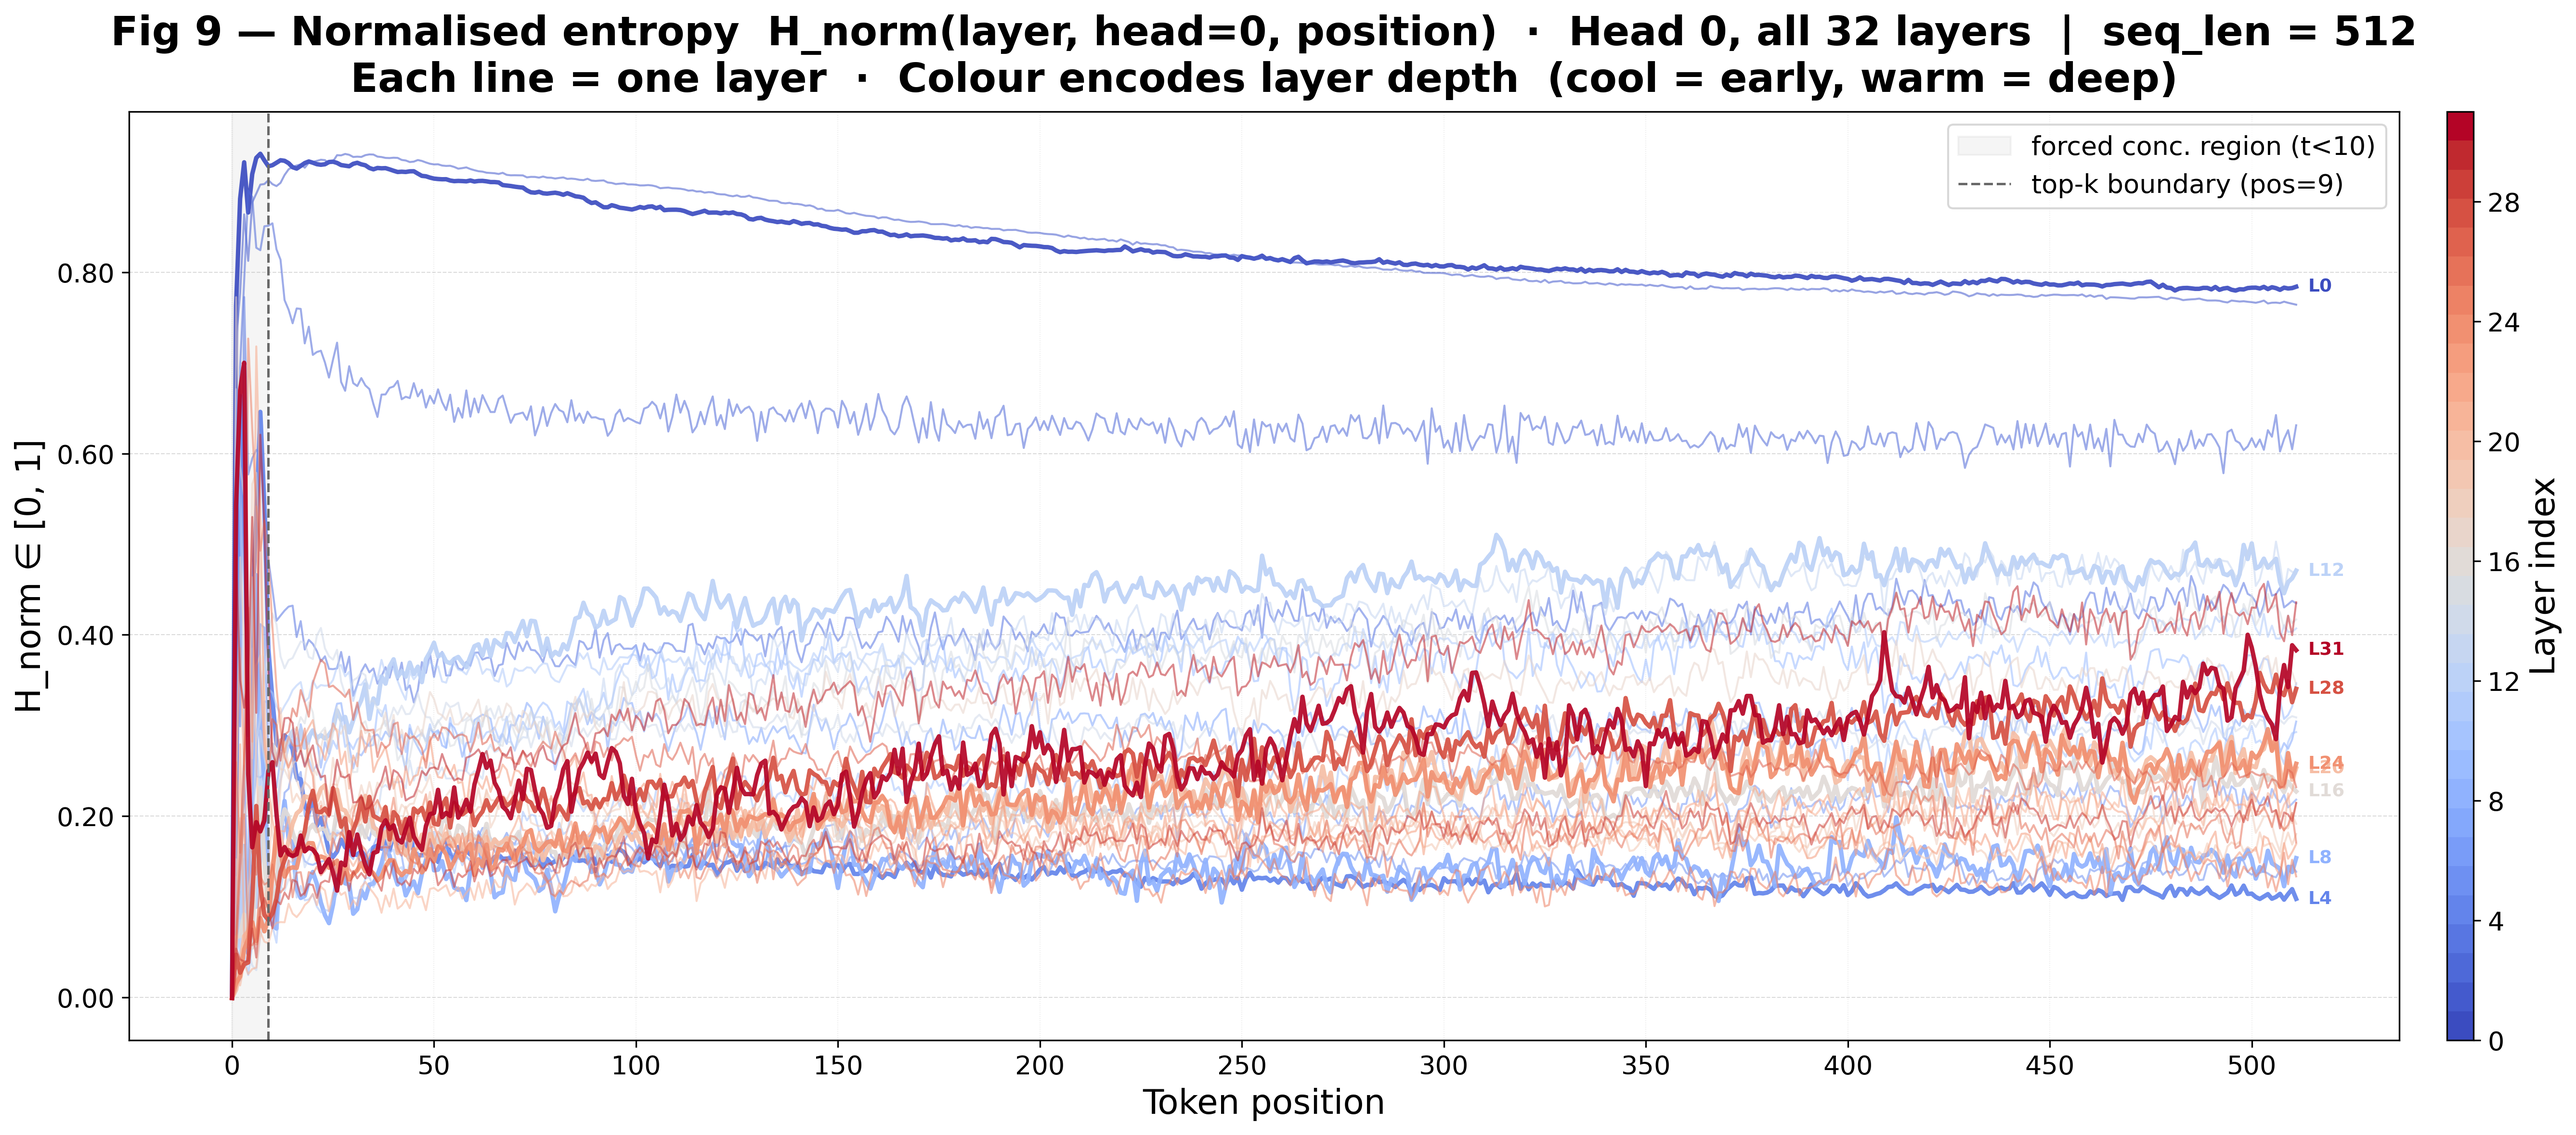
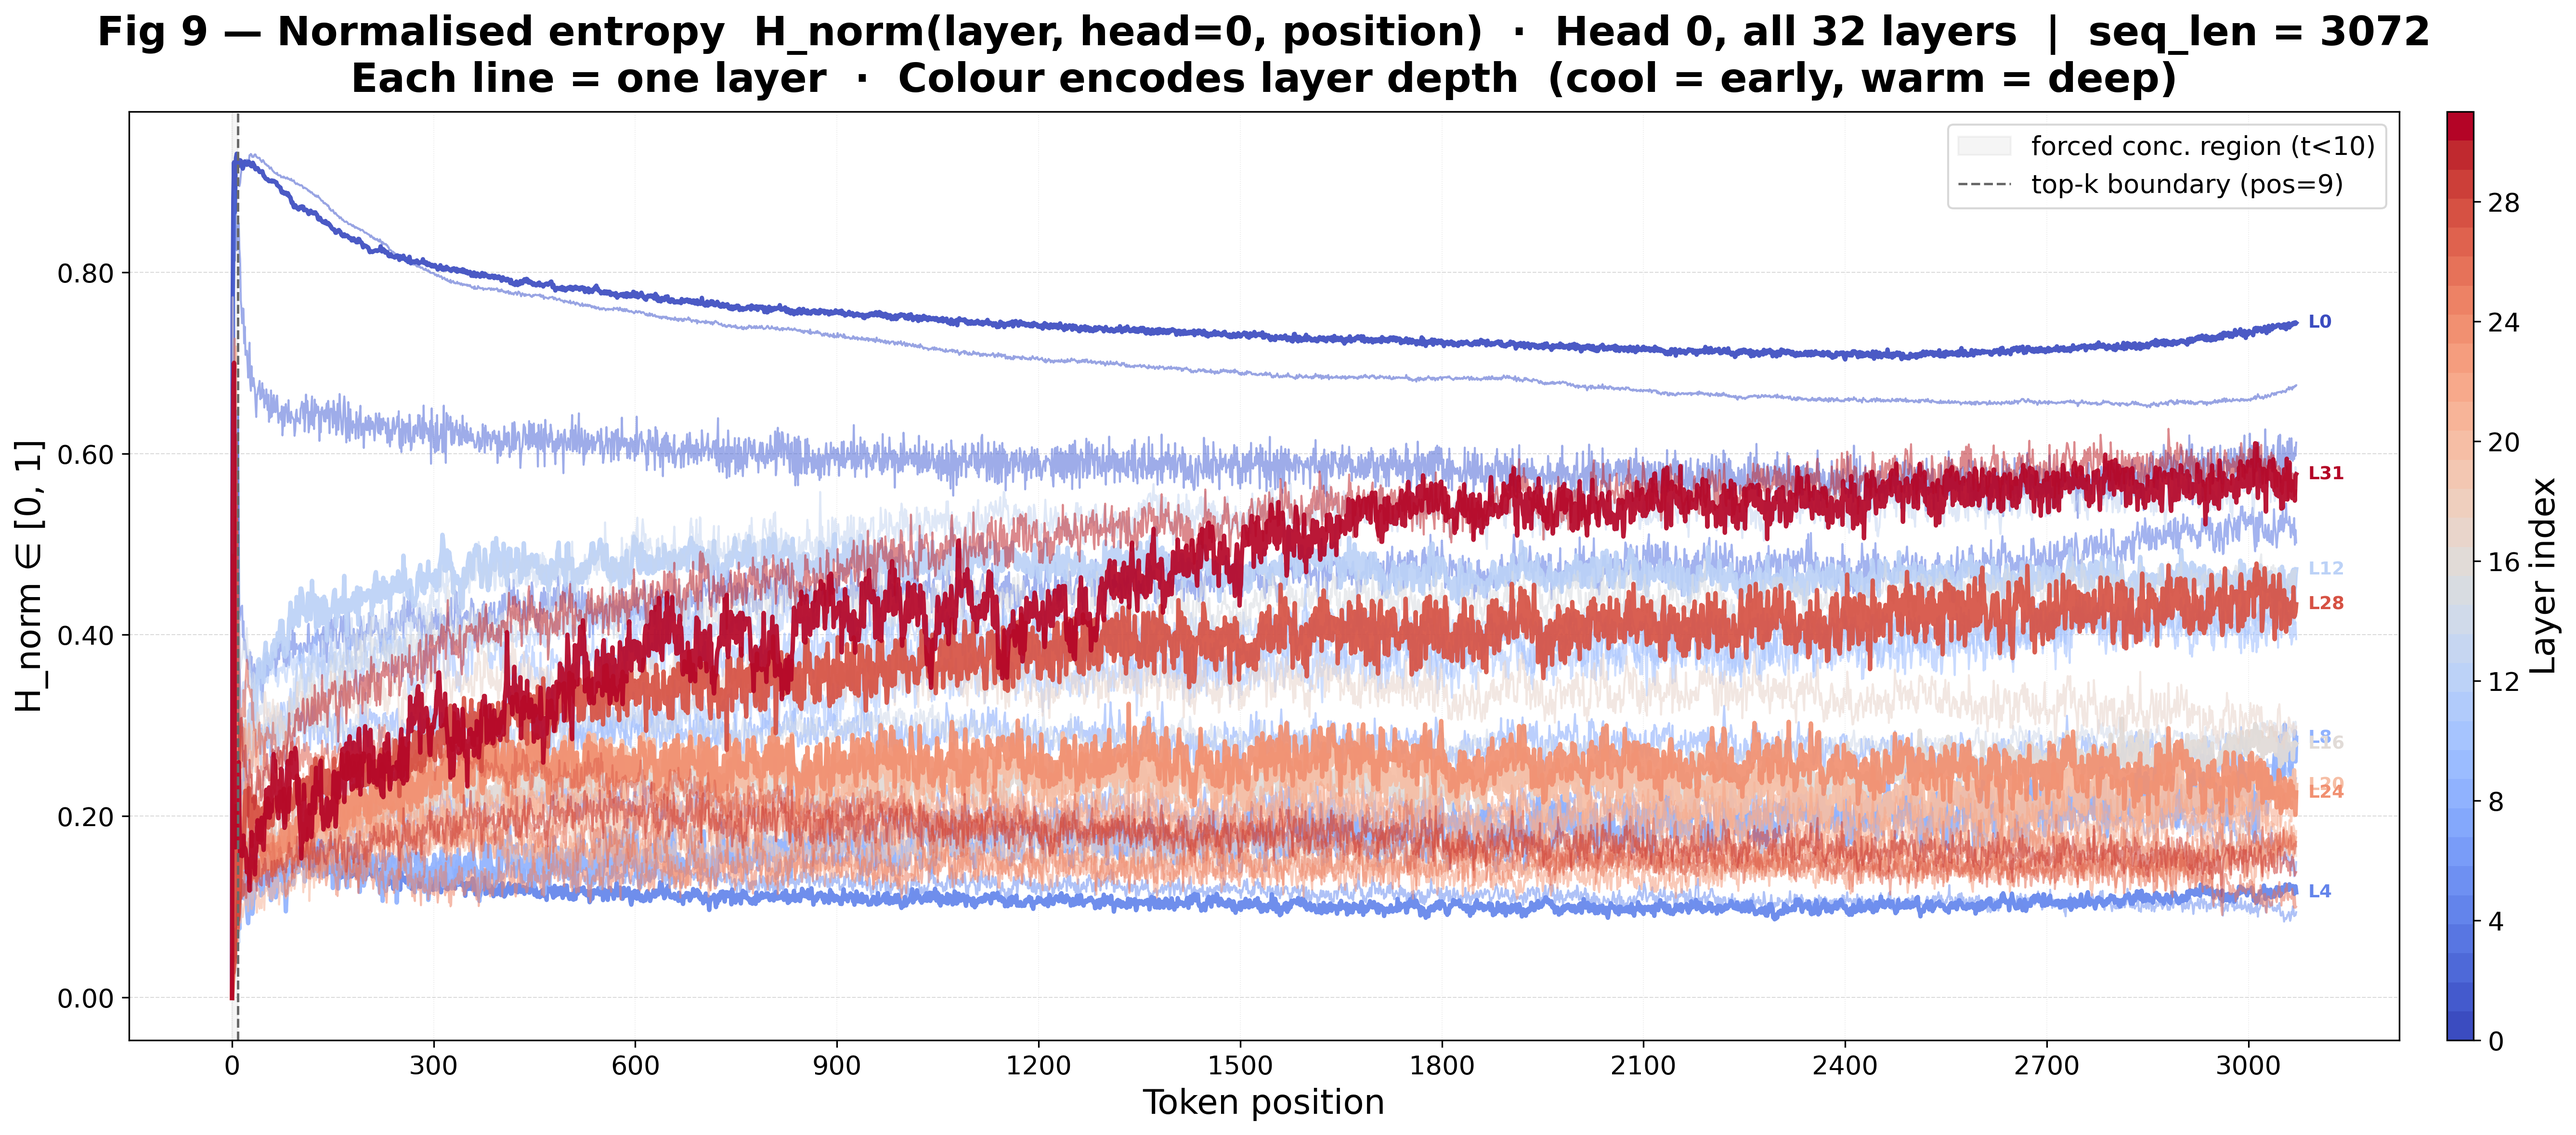
entropy 4-1

diff --git a/eval/plot_entropy.py b/eval/plot_entropy.py
@@ -89,12 +89,12 @@ _LENGTH_COLORS: dict[int, str] = {
 _FALLBACK_CMAP = plt.cm.tab10  # for unexpected lengths
 
 # Figure sizes  (width, height) in inches – intentionally large for clarity
-_FS_12 = (32, 14)  # 1×2 layout
-_FS_22 = (30, 26)  # 2×2 layout
-_FS_22SM = (28, 22)  # 2×2 for violin/box (slightly smaller per-panel)
-_FS_HEAT = (32, 26)  # 2×2 heatmap
-_FS_SINGLE = (22, 13)  # single panel
-_FS_DELTA = (18, 22)  # delta heatmap (tall)
+_FS_12 = (64, 28)
+_FS_22 = (60, 52)
+_FS_22SM = (56, 44)
+_FS_HEAT = (64, 52)
+_FS_SINGLE = (44, 26)
+_FS_DELTA = (36, 44)
 
 _DPI = 300
 _PREC = 5
@@ -1203,7 +1203,7 @@ def plot_pos_layer_head_heatmap(
     is absent (backward-compatible with older JSON files).
     """
     lengths = data["lengths"]
-    sl = lengths[0]  # single-length evaluator → first (and usually only) length
+    sl = lengths[-1]  # single-length evaluator → last (and usually only) length
 
     res = data["results"][str(sl)]
     has_norm_3d = "norm_entropy_head_layer_position" in res
@@ -1276,6 +1276,7 @@ def _plot_entropy_by_pos_head0_one(
     dpi: int,
     top_k_boundary: int = 0,
     cmap_name: str = "coolwarm",
+    xlim_range: tuple[int, int] | None = None,
 ) -> None:
     """
     Internal worker for Fig 9.
@@ -1284,6 +1285,7 @@ def _plot_entropy_by_pos_head0_one(
     Draws one line per layer, coloured by layer index using a diverging
     colormap so early / late layers are visually distinct.
     A thin colorbar replaces the legend.
+    xlim_range : (xmin, xmax)  optional range to limit x-axis display
     """
     L, T = arr.shape
     pos_x = np.arange(T)
@@ -1344,7 +1346,7 @@ def _plot_entropy_by_pos_head0_one(
     ax.grid(axis="y", linestyle="--", linewidth=0.5, alpha=0.45)
     ax.grid(axis="x", linestyle=":", linewidth=0.4, alpha=0.30)
 
-    if top_k_boundary > 0:
+    if top_k_boundary > 0 and (xlim_range is None or top_k_boundary >= xlim_range[0]):
         ax.axvline(
             top_k_boundary,
             color="dimgray",
@@ -1354,8 +1356,15 @@ def _plot_entropy_by_pos_head0_one(
         )
         ax.legend(fontsize=_LEGEND_FS - 1, framealpha=0.75)
 
+    if xlim_range is not None:
+        ax.set_xlim(xlim_range[0], xlim_range[1])
+
+    range_str = (
+        f" (pos {xlim_range[0]}-{xlim_range[1]})" if xlim_range is not None else ""
+    )
+    fig_num = "9-1" if xlim_range is not None else "9"
     ax.set_title(
-        f"Fig 9 — {title_prefix}  ·  Head 0, all {L} layers  |  seq_len = {seq_len}\n"
+        f"Fig {fig_num} — {title_prefix}{range_str}  ·  Head 0, all {L} layers  |  seq_len = {seq_len}\n"
         "Each line = one layer  ·  Colour encodes layer depth  "
         "(cool = early, warm = deep)",
         fontsize=_TITLE_FS,
@@ -1381,7 +1390,7 @@ def plot_entropy_by_pos_head0(
     L-layer stack is legible without a cluttered legend.
     """
     lengths = data["lengths"]
-    sl = lengths[0]
+    sl = lengths[-1]
 
     res = data["results"][str(sl)]
     top_k_bnd = res.get("top_k_boundary", 0)
@@ -1424,6 +1433,40 @@ def plot_entropy_by_pos_head0(
         top_k_boundary=top_k_bnd,
         cmap_name="coolwarm",
     )
+
+    # ── Fig 9-1: zoom into x-axis range 2048-3072 ───────────────────────────
+    if sl >= 3072:
+        xlim_range = (2048, 3072)
+
+        _plot_entropy_by_pos_head0_one(
+            data,
+            sl,
+            arr=raw_head0,
+            title_prefix="Raw entropy  H(layer, head=0, position)",
+            ylabel="H (nats)",
+            out_dir=out_dir,
+            fname=f"{method_name}_fig09-1_entropy_vs_pos_head0_raw.{fmt}",
+            fmt=fmt,
+            dpi=dpi,
+            top_k_boundary=top_k_bnd,
+            cmap_name="coolwarm",
+            xlim_range=xlim_range,
+        )
+
+        _plot_entropy_by_pos_head0_one(
+            data,
+            sl,
+            arr=norm_head0,
+            title_prefix="Normalised entropy  H_norm(layer, head=0, position)",
+            ylabel="H_norm ∈ [0, 1]",
+            out_dir=out_dir,
+            fname=f"{method_name}_fig09-1_entropy_vs_pos_head0_norm.{fmt}",
+            fmt=fmt,
+            dpi=dpi,
+            top_k_boundary=top_k_bnd,
+            cmap_name="coolwarm",
+            xlim_range=xlim_range,
+        )
 
 
 # ---------------------------------------------------------------------------
